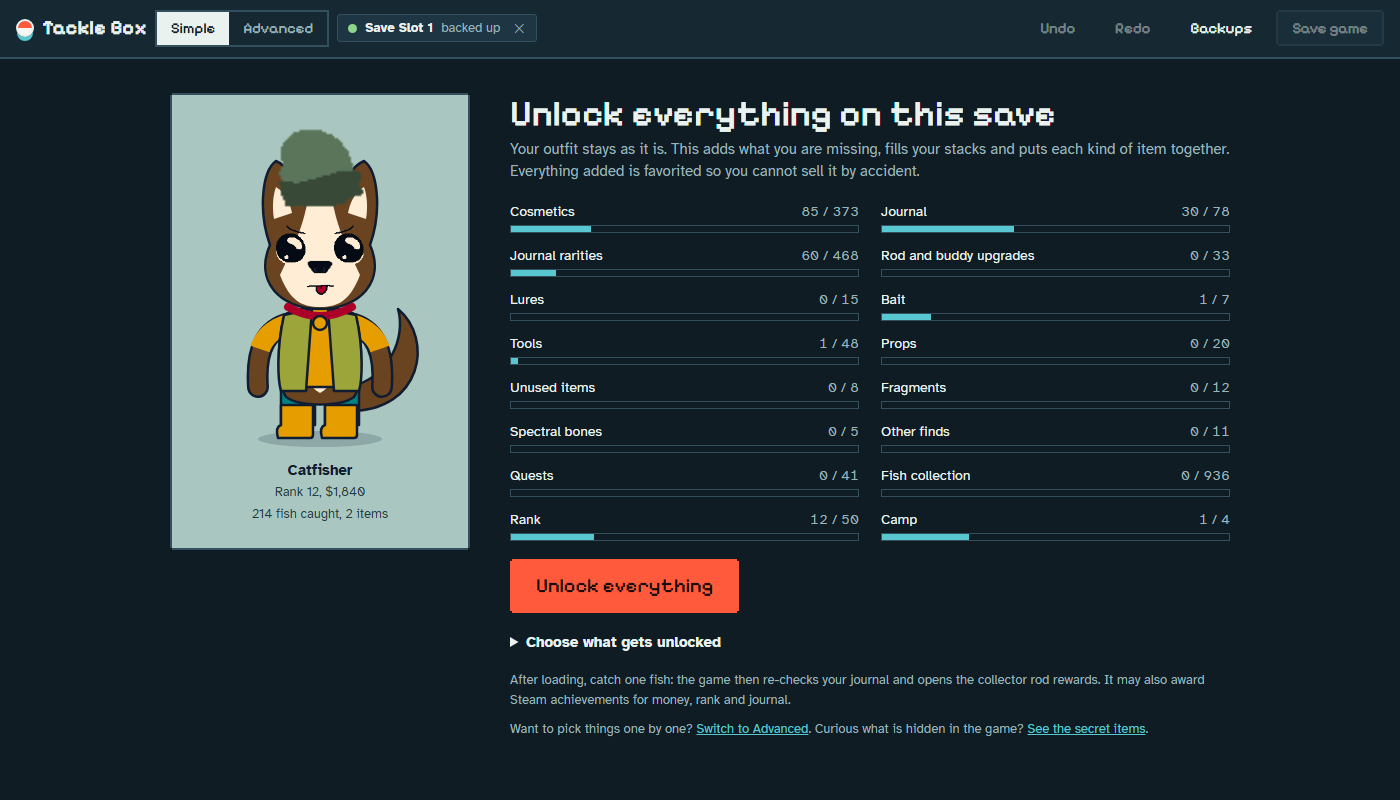
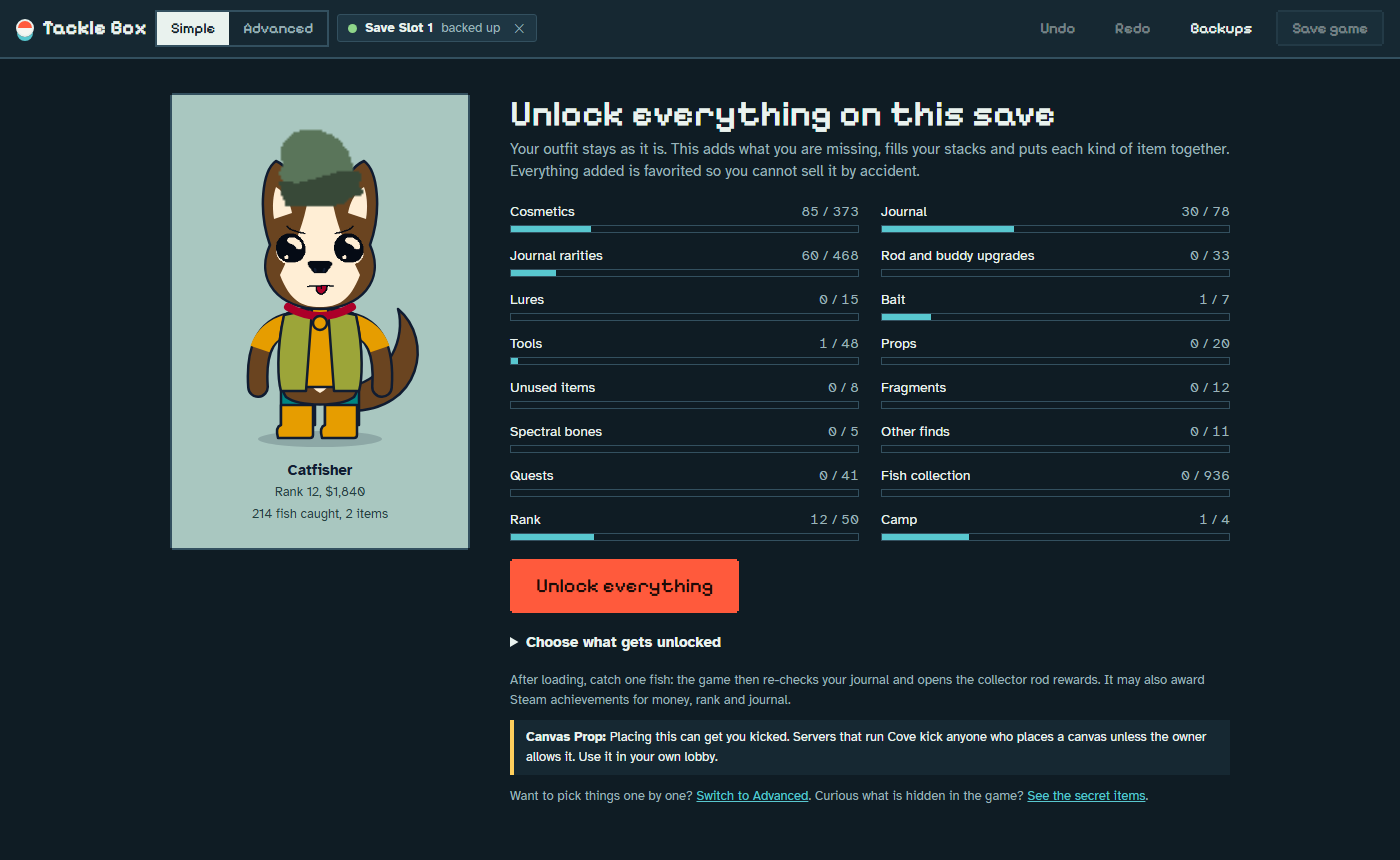
Warn about the Canvas Prop and drop the accessories experiment label
Cove servers kick anyone who places a canvas by default. Nothing in the game
sells it, so Secret items lists it too.

Changed region(s): [[0.0, 0.0, 1.0, 0.9375]]

diff --git a/tests/run.js b/tests/run.js
@@ -9,7 +9,7 @@ const FILES = ['core/variant', 'core/nodes', 'core/diff', 'core/zip', 'data/item
 const ctx = vm.createContext({ console, TextEncoder, TextDecoder, atob, localStorage: { getItem: () => null, setItem() {} }, document: {}, window: {}, navigator: {} });
 for (const f of FILES) vm.runInContext(fs.readFileSync(path.join(ROOT, 'js', f + '.js'), 'utf8'), ctx, { filename: f });
 const E = (code) => vm.runInContext(code, ctx);
-const X = E('({ parseFile, serializeFile, clone, diff, get, val, N, readSaveFile, checkSave, unlockEverything, completion, startFresh, freshRoot, setTabOrder, moveInTab, sortTab, tabItems, addItems, removeRefs, planCollection, sizeName, SIZE_PRESETS, SIZE_NAMES, biggestNatural, atRatio, CATCHABLE, ALL_FISH, GAME_ITEMS, GAME_COSMETICS, UNLOCK_PARTS, SORTS, LIMITS, JOURNAL_SECTIONS, summarize, recordCatch, setHotbar, hotbarSlotOf, setFavorite, isFavorite, favoriteSet, hasFullCollection, organizeAll, ITEM_ORDER, FRAGMENTS, BONES, METAL_FINDS, COIN_BAG, CHEST, FIND_ORDER, OWN_LIMIT, KEEPER_TOOLS, KEEPER_PROPS, countItems, lacking, fragmentSet, boneSet, findSet, clearInventory, bonesOpen, SECRET_COSMETICS, SECRET_ITEMS, FINDABLE_SECRETS, HIDDEN_COSMETICS, CONTRIBUTOR_TITLES, maxQuests, questsDone, questBoard, tutorialDone, FULL_COLLECTION, missingFish, orderChanged, makeZip, sameBytes, hashBytes, itemTab, USABLE_COSMETICS })');
+const X = E('({ parseFile, serializeFile, clone, diff, get, val, N, readSaveFile, checkSave, unlockEverything, completion, startFresh, freshRoot, setTabOrder, moveInTab, sortTab, tabItems, addItems, removeRefs, planCollection, sizeName, SIZE_PRESETS, SIZE_NAMES, biggestNatural, atRatio, CATCHABLE, ALL_FISH, GAME_ITEMS, GAME_COSMETICS, UNLOCK_PARTS, SORTS, LIMITS, JOURNAL_SECTIONS, summarize, recordCatch, setHotbar, hotbarSlotOf, setFavorite, isFavorite, favoriteSet, hasFullCollection, organizeAll, ITEM_ORDER, FRAGMENTS, BONES, METAL_FINDS, COIN_BAG, CHEST, FIND_ORDER, OWN_LIMIT, KEEPER_TOOLS, KEEPER_PROPS, countItems, lacking, fragmentSet, boneSet, findSet, clearInventory, bonesOpen, SECRET_COSMETICS, SECRET_ITEMS, UNSOLD_ITEMS, ITEM_WARNINGS, FINDABLE_SECRETS, HIDDEN_COSMETICS, CONTRIBUTOR_TITLES, maxQuests, questsDone, questBoard, tutorialDone, FULL_COLLECTION, missingFish, orderChanged, makeZip, sameBytes, hashBytes, itemTab, USABLE_COSMETICS })');
 
 const same = (a, b, m) => assert.deepStrictEqual(JSON.parse(JSON.stringify([...a])), JSON.parse(JSON.stringify([...b])), m);
 let passed = 0;
@@ -43,6 +43,8 @@ test('secret lists match the game data', () => {
   same([...X.HIDDEN_COSMETICS].sort(), X.SECRET_COSMETICS.map(s => s.id).sort());
   same(Object.keys(X.GAME_ITEMS).filter(id => X.GAME_ITEMS[id].unobtainable && !X.GAME_ITEMS[id].hidden).sort(), X.SECRET_ITEMS.map(s => s.id).sort());
   for (const s of X.FINDABLE_SECRETS) { assert(X.GAME_ITEMS[s.id] || X.GAME_COSMETICS[s.id], s.id); assert(!(X.GAME_ITEMS[s.id] || {}).unobtainable && !X.HIDDEN_COSMETICS.has(s.id), s.id); }
+  for (const s of X.UNSOLD_ITEMS) assert(X.GAME_ITEMS[s.id] && !X.GAME_ITEMS[s.id].unobtainable, s.id);
+  for (const id of Object.keys(X.ITEM_WARNINGS)) assert(X.GAME_ITEMS[id], id);
   for (const id of X.CONTRIBUTOR_TITLES) assert(X.GAME_COSMETICS[id], id);
   for (const q of X.get(X.freshRoot(), 'quests').m.values()) for (const n of X.val(q, 'rewards')) assert(!X.HIDDEN_COSMETICS.has(n.v) && !X.HIDDEN_COSMETICS.has('s' + n.v.slice(2)), n.v);
 });

diff --git a/js/views/inventory.js b/js/views/inventory.js
@@ -151,6 +151,7 @@ function InventoryView() {
     const head = h('div', { class: 'dhead' }, itemIcon(id, 'ic huge'), h('div', null, h('h2', null, nameOf(id)), h('code', { class: 'muted' }, id),
       !data ? h('p', { class: 'warn small' }, 'Not in the game’s item list. It is kept as it is.') : data.unobtainable ? h('p', { class: 'warn small' }, data.hidden ? 'The game adds this itself. Leave it alone.' : 'Unused item: the game never hands this out. Do not mail it.') : null));
     if (ref === '0') { addKids(detail, head); return; }
+    if (ITEM_WARNINGS[id]) head.lastChild.append(h('p', { class: 'warn small' }, ITEM_WARNINGS[id]));
     const pos = list().findIndex(x => refOf(x) === ref), last = list().length - 1;
     const sizeN = get(n, 'size'), countN = get(n, 'count') || N.int(1);
     const name = h('input', { type: 'text', value: val(n, 'custom_name') || '', maxlength: LIMITS.nameLength, placeholder: 'No custom name', onchange: (e) => edit('Rename item', () => { ensure(n, 'custom_name', () => N.str('')).v = cleanName(e.target.value); }) });
@@ -222,6 +223,7 @@ function addItemDialog() {
     put(form);
     if (!pick) { addKids(form, h('p', { class: 'muted' }, 'Pick an item above.')); return; }
     const d = GAME_ITEMS[pick];
+    if (ITEM_WARNINGS[pick]) addKids(form, h('p', { class: 'note' }, ITEM_WARNINGS[pick]));
     const num = (label, key, min, max, step) => field(label, h('input', { type: 'number', value: o[key], min, max, step: step || 1, onchange: (e) => { o[key] = Math.min(max, Math.max(min, parseFloat(e.target.value) || min)); e.target.value = o[key]; } }));
     addKids(form, h('div', { class: 'row wrap end-align' }, h('b', null, nameOf(pick)), num('Copies', 'copies', 1, 500), d.usesSize ? num('Size (cm)', 'size', MIN_FISH_SIZE, ABSOLUTE_MAX_SIZE, 'any') : null, d.stack ? num('Stack', 'count', 1, LIMITS.stack) : null,
       itemTab(pick) === 'fish' ? h('div', { class: 'field wide' }, h('span', { class: 'lbl' }, 'Rarity'), rarityPills(o.quality, (i) => { o.quality = i; drawForm(); }, false)) : null,

diff --git a/js/data/secrets.js b/js/data/secrets.js
@@ -18,6 +18,14 @@ const SECRET_ITEMS = [
   { id: 'fish_deep_testb', note: 'The second deep test fish, a copy of the first.', look: 'Inventory, Creatures' },
   { id: 'fish_deep_testc', note: 'The third deep test fish, a copy of the first.', look: 'Inventory, Creatures' }
 ];
+/* Not marked as unused, but nothing in the game sells or gives it. */
+const UNSOLD_ITEMS = [
+  { id: 'prop_canvas', note: '“Place a canvas for all your chalk desires!” A working prop that no shop sells.', look: 'Props menu' }
+];
+/* Shown wherever the item can be added or edited. */
+const ITEM_WARNINGS = {
+  prop_canvas: 'Placing this can get you kicked. Servers that run Cove kick anyone who places a canvas unless the owner allows it. Use it in your own lobby.'
+};
 /* Secrets any player can get. */
 const FINDABLE_SECRETS = [
   { id: 'fishing_rod_skeleton', how: 'Collect five spectral bones: skull, rib, spine, humerus and femur. Picking up the first one opens a hidden shop that trades the set for this rod.' },
@@ -33,4 +41,4 @@ const FINDABLE_SECRETS = [
   { id: 'pcolor_midnight_special', how: 'Second reward of the Squid quest, with the matching second fur. Octopus gives a pink pair and Coelacanth a stone pair.' },
   { id: 'title_lamedev', how: 'Can come out of a treasure chest. Its description says “due to a bug, this exists now.”' }
 ];
-if (typeof module !== 'undefined') module.exports = { SECRET_COSMETICS, SECRET_ITEMS, FINDABLE_SECRETS };
+if (typeof module !== 'undefined') module.exports = { SECRET_COSMETICS, SECRET_ITEMS, UNSOLD_ITEMS, ITEM_WARNINGS, FINDABLE_SECRETS };

diff --git a/js/views/secrets.js b/js/views/secrets.js
@@ -14,6 +14,7 @@ function SecretsView() {
       h('div', { class: 'grow' },
         h('div', { class: 'row wrap' }, h('h3', null, nameOf(id)), root ? h('span', { class: 'tag' + (has ? ' good' : '') }, has ? 'You have it' : 'Not yet') : null),
         h('p', null, text),
+        ITEM_WARNINGS[id] ? h('p', { class: 'warn small' }, ITEM_WARNINGS[id]) : null,
         look ? h('p', { class: 'muted small' }, 'See it in the game: ' + look) : null),
       add && root && !has ? button('Add to my save', () => { commit('save', 'Add ' + nameOf(id), () => add(id)); toast('Added ' + nameOf(id) + '. Save to see it in the game.'); }, 'small') : null);
   };
@@ -30,6 +31,7 @@ function SecretsView() {
     section('Hidden cosmetics', 'Finished and wearable, but the game never gives them to you.', SECRET_COSMETICS, own),
     section('Unused items', 'Left over from features that were cut. The game never hands these out.', SECRET_ITEMS, item,
       'Do not mail these. The game turns an unused item into a salmon when it is mailed.'),
+    section('Never sold', 'Works, but nothing in the game sells it or gives it out.', UNSOLD_ITEMS, item),
     section('Secrets you can find yourself', 'Everyone can get these by playing. The Fragments and bones page can add the parts.', FINDABLE_SECRETS, null),
     h('section', { class: 'secretblock' }, h('h2', null, 'Contributor titles'),
       h('p', { class: 'muted' }, 'Made for people who helped with the game. Anyone else who wears one is shown as “Scout”, so adding them does nothing.'),

diff --git a/js/views/simple.js b/js/views/simple.js
@@ -22,5 +22,6 @@ function SimpleView() {
       h('details', { class: 'options' }, h('summary', null, 'Choose what gets unlocked'),
         h('div', { class: 'optgrid' }, UNLOCK_PARTS.map(([k, label, desc]) => checkbox(h('span', null, h('b', null, label), h('span', { class: 'muted small block' }, desc)), simpleParts[k], v => { simpleParts[k] = v; })))),
       h('p', { class: 'muted small' }, 'After loading, catch one fish: the game then re-checks your journal and opens the collector rod rewards. It may also award Steam achievements for money, rank and journal.'),
+      h('p', { class: 'note small' }, h('b', null, 'Canvas Prop: '), ITEM_WARNINGS.prop_canvas),
       h('p', { class: 'muted small' }, 'Want to pick things one by one? ', h('button', { type: 'button', class: 'link', onclick: () => setMode('advanced') }, 'Switch to Advanced'), '. Curious what is hidden in the game? ', h('button', { type: 'button', class: 'link', onclick: () => go('secrets') }, 'See the secret items'), '.')));
 }

diff --git a/js/app/actions.js b/js/app/actions.js
@@ -310,7 +310,7 @@ const UNLOCK_PARTS = [
   ['camp', 'Camp', 'Tier 4, loan paid off'],
   ['cosmetics', 'Cosmetics', 'Everything in the game files, including hidden ones'],
   ['tools', 'Tools', 'Every rod, instrument, chalk, drink and gadget, with full stacks of 99'],
-  ['props', 'Props', 'Every prop, as many as the shop lets you own (4 chairs)'],
+  ['props', 'Props', 'Every prop, as many as the shop lets you own (4 chairs). Placing the Canvas Prop can get you kicked from some servers'],
   ['unused', 'Unused items', 'The 8 leftovers from cut features, see Secret items'],
   ['fragments', 'Fragments', 'Three of each metal detector fragment, enough for all four trades'],
   ['bones', 'Spectral bones', 'All five, and opens the hidden bone shop'],

diff --git a/js/views/progress.js b/js/views/progress.js
@@ -28,6 +28,7 @@ function unlockDialog() {
   const parts = Object.fromEntries(UNLOCK_PARTS.map(([k]) => [k, true]));
   const m = modal('Unlock everything', [
     h('p', { class: 'muted' }, 'Only adds or raises. Your outfit is not touched.'),
+    h('p', { class: 'note small' }, h('b', null, 'Canvas Prop: '), ITEM_WARNINGS.prop_canvas),
     h('div', { class: 'optgrid' }, UNLOCK_PARTS.map(([k, label, desc]) => checkbox(h('span', null, h('b', null, label), h('span', { class: 'muted small block' }, desc)), true, v => { parts[k] = v; }))),
     h('div', { class: 'row end' }, button('Cancel', () => m.close(), 'ghost'), button('Unlock', () => { m.close(); askAndUnlock(parts); }, 'primary'))
   ], { wide: true });

diff --git a/js/views/cosmetics.js b/js/views/cosmetics.js
@@ -40,7 +40,7 @@ function CosmeticsView() {
   const accessoryTools = () => {
     const all = idsFor('accessory').filter(isCosmetic), worn = wornIn('accessory').length;
     return h('div', { class: 'accbar' },
-      checkbox('Wear more than 4 (experiment)', st.many, v => { st.many = v; drawGrid(); }),
+      checkbox('Wear more than 4', st.many, v => { st.many = v; drawGrid(); }),
       h('span', { class: 'muted small' }, worn + ' worn'),
       st.many ? button('Wear all ' + all.length, () => wearAccessories('Wear every accessory', all), 'small') : null,
       worn ? button('Take all off', () => wearAccessories('Take off accessories', []), 'small') : null,

diff --git a/README.md b/README.md
@@ -43,7 +43,7 @@ Pick the species, rarity, size, name and amount, and see what it sells for. Or a
 
 ### Dress up your character
 
-A live preview with the game's own faces, hats and colours. The body is a drawing that stands in for the 3D model.
+A live preview with the game's own faces, hats and colours. The body is a drawing that stands in for the 3D model. You can also wear more than 4 accessories, which the game's own menu does not allow.
 
 ![Cosmetics page with a live outfit preview](docs/screenshots/cosmetics.png)
 
@@ -84,6 +84,7 @@ Backups live in your browser, so clearing site data removes them. Download the o
 
 - After loading an unlocked save, **catch one fish**. The game then checks your journal and opens the rod rewards.
 - The game may award **Steam achievements** for money, rank and journal.
+- **Placing the Canvas Prop can get you kicked.** Servers that run Cove kick anyone who places a canvas unless the owner allows it. Use it in your own lobby.
 - **Do not mail unused items.** In the game's code, mailing one turns it into a salmon.
 - The game lets you favorite about 100 items by hand. It keeps more if they come from a save, but you cannot add others in the game until you are back to 100.
 - **Everything the tool adds is favorited.** To sell, trade or mail one of those items, unfavorite it in the game with right-click.
